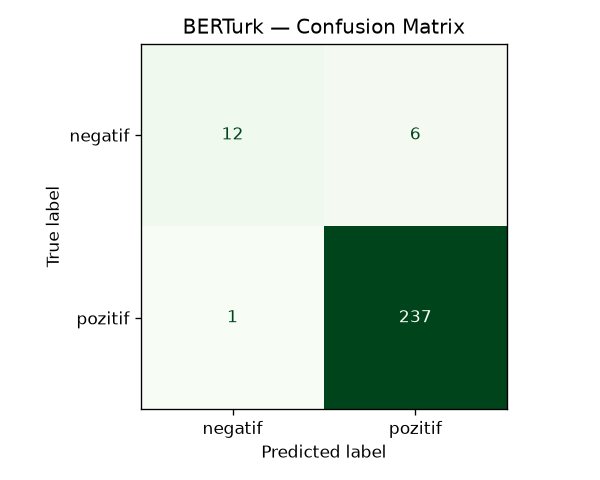
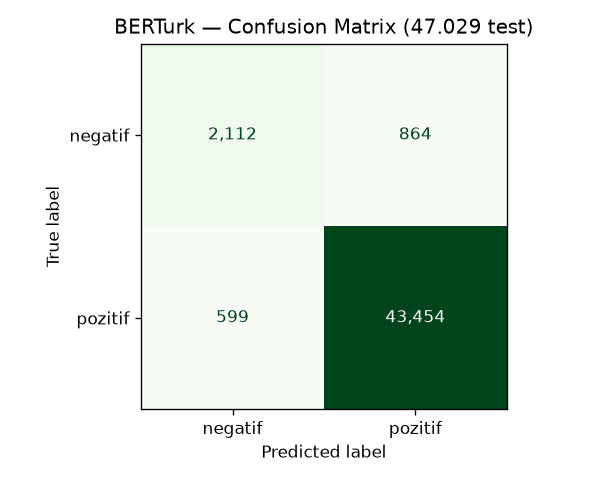
BERTurk tam-kume (47k) confusion matrix + degerlendirme raporu
- docs/images/berturk_confusion_matrix.png: tam test kumesi (47.029) sonuclari
  (Colab GPU degerlendirmesinden; accuracy 0.9688, macro-F1 0.8630)
- outputs/berturk_report.md: tam-kume metrikleri + gercek hata ornekleri;
  kalan hatalarin buyuk kismi etiket gurultusu (model degil, etiket hatasi)

diff --git a/outputs/berturk_report.md b/outputs/berturk_report.md
@@ -1,0 +1,51 @@
+# BERTurk Değerlendirme Raporu
+
+**Model:** [`Eneskck/berturk-turkish-product-sentiment`](https://huggingface.co/Eneskck/berturk-turkish-product-sentiment)
+**Test kümesi:** 47.029 yorum (baseline ile aynı stratified bölme, `random_state=42`)
+**Değerlendirme:** tam test kümesi, Colab GPU (fine-tuning ile aynı ortam).
+
+## Sonuçlar (tam test kümesi)
+- Accuracy: **0.9688**
+- Macro-F1: **0.8630**
+
+```
+              precision    recall  f1-score   support
+
+     negatif     0.7785    0.7097    0.7425      2976
+     pozitif     0.9805    0.9864    0.9834     44053
+
+    accuracy                         0.9688     47029
+   macro avg     0.8795    0.8480    0.8630     47029
+weighted avg     0.9677    0.9688    0.9682     47029
+```
+
+Confusion matrix (`docs/images/berturk_confusion_matrix.png`):
+
+|              | pred negatif | pred pozitif |
+|:-------------|:------------:|:------------:|
+| **true negatif** | 2.112 | 864 |
+| **true pozitif** | 599 | 43.454 |
+
+Baseline ile kıyas: negatif F1 **0.53 → 0.74**, negatif precision **0.39 → 0.78**.
+
+## Kalan hataların doğası
+BERTurk, baseline'ın kaçırdığı olumsuzlama ve bağlam vakalarını büyük ölçüde
+çözüyor. Kalan hataların önemli bir kısmı ise **modelin değil, etiketin hatası** —
+yani veri setindeki gürültü. Test kümesinden gerçek örnekler:
+
+**Gerçekte "negatif" etiketli ama model (haklı olarak) pozitif dedi:**
+- _"piyasa fiyatına ayağınıza gelsin avantajlı"_ → açıkça olumlu, yanlış etiket
+- _"ürün 2 gün içinde elime ulaştı teşekkürler ... çanta fiyatına göre gayet güzel"_ → olumlu
+- _"ilkokula yeni başlayan yeğenime aldığım mikroskop gayet güzel çıktı ... tavsiye ederim"_ → olumlu
+
+**Gerçekten zor (bağlam/karışık) vakalar:**
+- _"ürün güzel ancak demliğindeki süzgeç tamamen düşünülmeden yapılmış ..."_ → karışık yorum
+- _"silikon kılıf tam oturdu ve şık duruyor fakat kırılmaz cam ekranı tam kaplamıyor ..."_ → olumlu + şikayet
+
+> **Sonuç:** raporlanan macro-F1 (0.863) muhtemelen modelin gerçek tavanının biraz
+> altında; çünkü mükemmel bir model bile yanlış etiketli örnekleri "yanlış" bilmek
+> zorunda. Bkz. baseline hata analizi: `outputs/error_analysis.md`.
+
+---
+*Metrikler tam test kümesinden; `python -m src.evaluate_berturk` ile yeniden üretilebilir
+(CPU'da yavaş; `--sample N` ile hızlı bir alt-küme değerlendirmesi yapılabilir).*